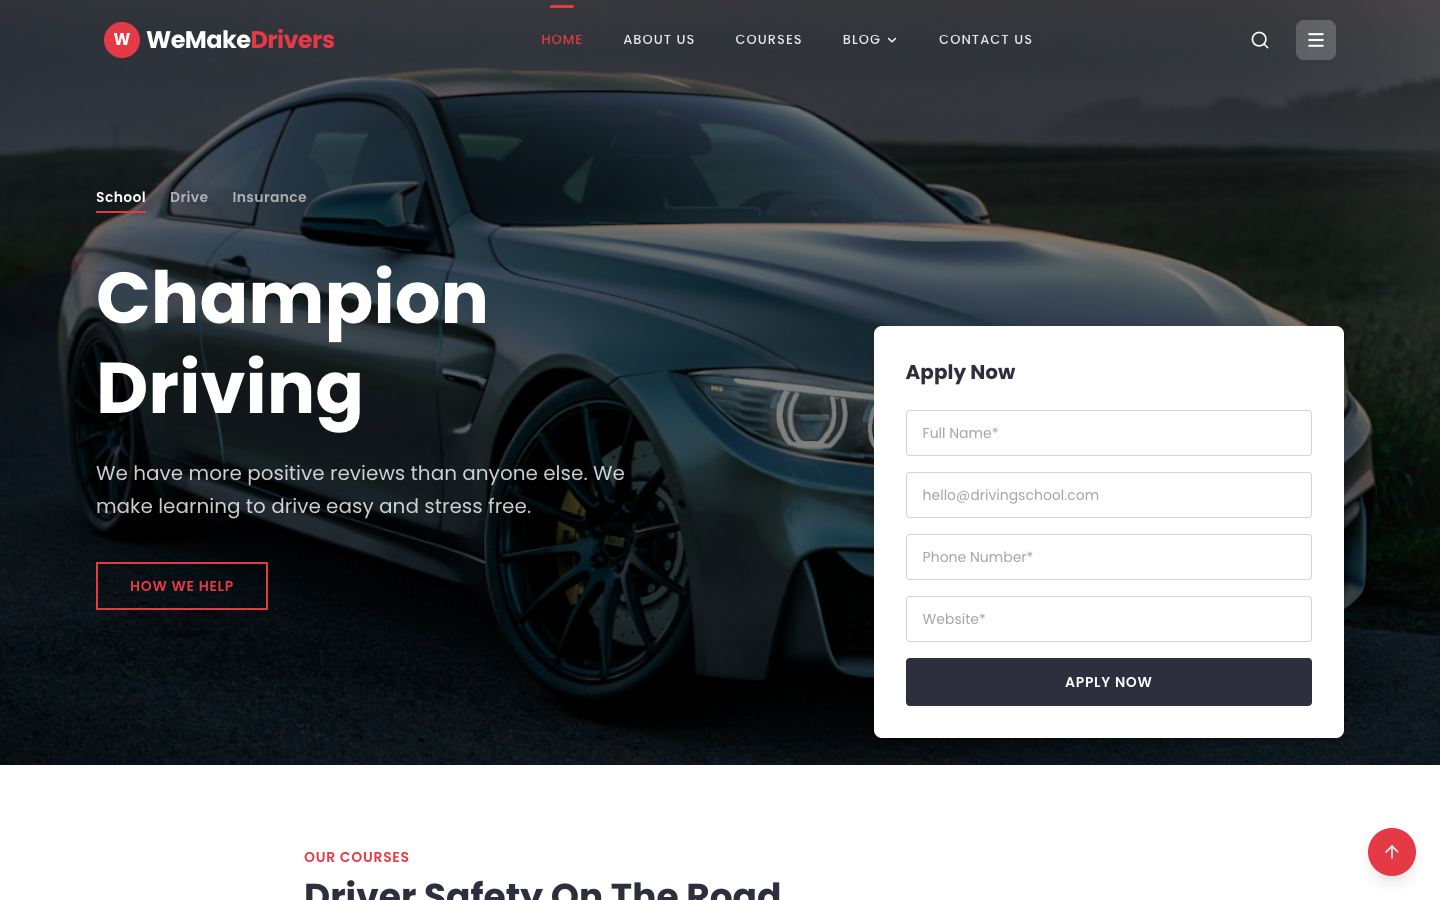
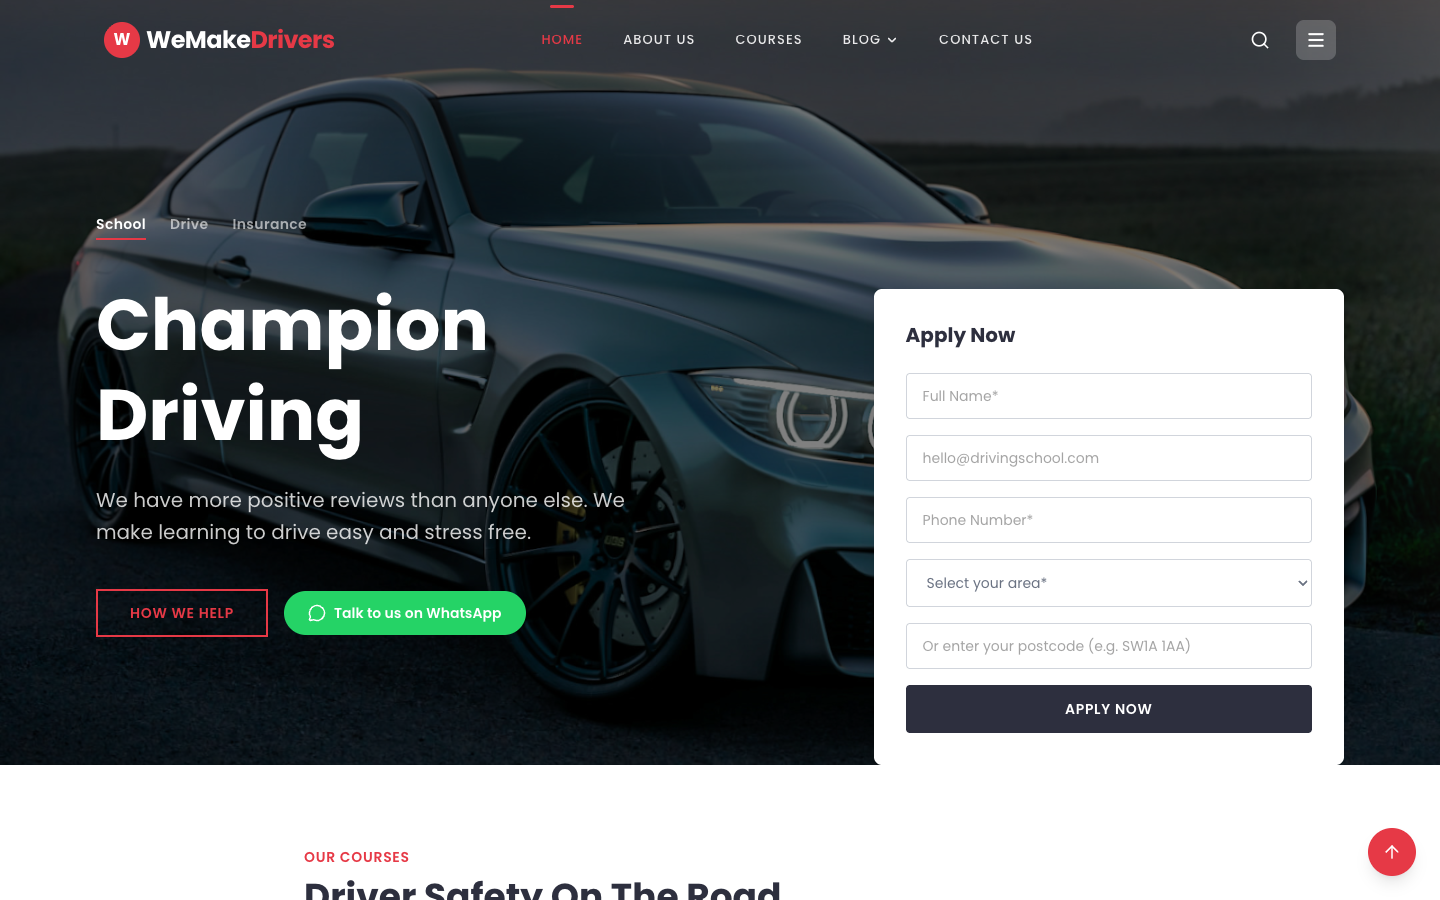
feat: replace website field with London area selector + postcode, add WhatsApp CTA to hero

Changed region(s): [[0.0625, 0.2178, 0.4375, 0.7156], [0.5938, 0.3111, 0.9375, 0.6533], [0.5938, 0.6844, 0.9375, 0.8711]]

diff --git a/src/pages/Home.tsx b/src/pages/Home.tsx
@@ -21,6 +21,7 @@ import {
   Target,
   Map,
   MapPin,
+  MessageCircle,
 } from 'lucide-react'
 import SectionHeading from '../components/shared/SectionHeading'
 import SEO from '../components/shared/SEO'
@@ -100,12 +101,23 @@ function Home() {
               <p className="text-white/80 text-lg md:text-xl max-w-xl mb-10 leading-relaxed">
                 We have more positive reviews than anyone else. We make learning to drive easy and stress free.
               </p>
-              <a
-                href="#how-it-works"
-                className="inline-block border-2 border-secondary text-secondary px-8 py-3 font-semibold uppercase tracking-wider text-sm hover:bg-secondary hover:text-white transition-colors"
-              >
-                How We Help
-              </a>
+              <div className="flex flex-wrap items-center gap-4">
+                <a
+                  href="#how-it-works"
+                  className="inline-block border-2 border-secondary text-secondary px-8 py-3 font-semibold uppercase tracking-wider text-sm hover:bg-secondary hover:text-white transition-colors"
+                >
+                  How We Help
+                </a>
+                <a
+                  href={SITE.whatsapp}
+                  target="_blank"
+                  rel="noopener noreferrer"
+                  className="inline-flex items-center gap-2 bg-[#25D366] text-white px-6 py-3 font-semibold text-sm rounded-full hover:bg-[#1ebe57] transition-colors"
+                >
+                  <MessageCircle size={18} />
+                  Talk to us on WhatsApp
+                </a>
+              </div>
             </div>
 
             {/* Right — Apply form (overlapping hero) */}
@@ -128,9 +140,28 @@ function Home() {
                     placeholder="Phone Number*"
                     className="w-full border border-gray-300 rounded px-4 py-3 text-sm focus:outline-none focus:border-secondary transition-colors"
                   />
+                  <select
+                    className="w-full border border-gray-300 rounded px-4 py-3 text-sm focus:outline-none focus:border-secondary transition-colors text-gray-500"
+                    defaultValue=""
+                  >
+                    <option value="" disabled>Select your area*</option>
+                    <option value="N">North London</option>
+                    <option value="S">South London</option>
+                    <option value="E">East London</option>
+                    <option value="W">West London</option>
+                    <option value="C">Central London</option>
+                    <option value="CR">Croydon</option>
+                    <option value="EN">Enfield</option>
+                    <option value="BR">Bromley</option>
+                    <option value="SE">Greenwich / Lewisham</option>
+                    <option value="N1">Islington / Camden</option>
+                    <option value="SW">Wandsworth</option>
+                    <option value="HA">Barnet / Harrow</option>
+                    <option value="other">Other (enter postcode below)</option>
+                  </select>
                   <input
-                    type="url"
-                    placeholder="Website*"
+                    type="text"
+                    placeholder="Or enter your postcode (e.g. SW1A 1AA)"
                     className="w-full border border-gray-300 rounded px-4 py-3 text-sm focus:outline-none focus:border-secondary transition-colors"
                   />
                   <button
